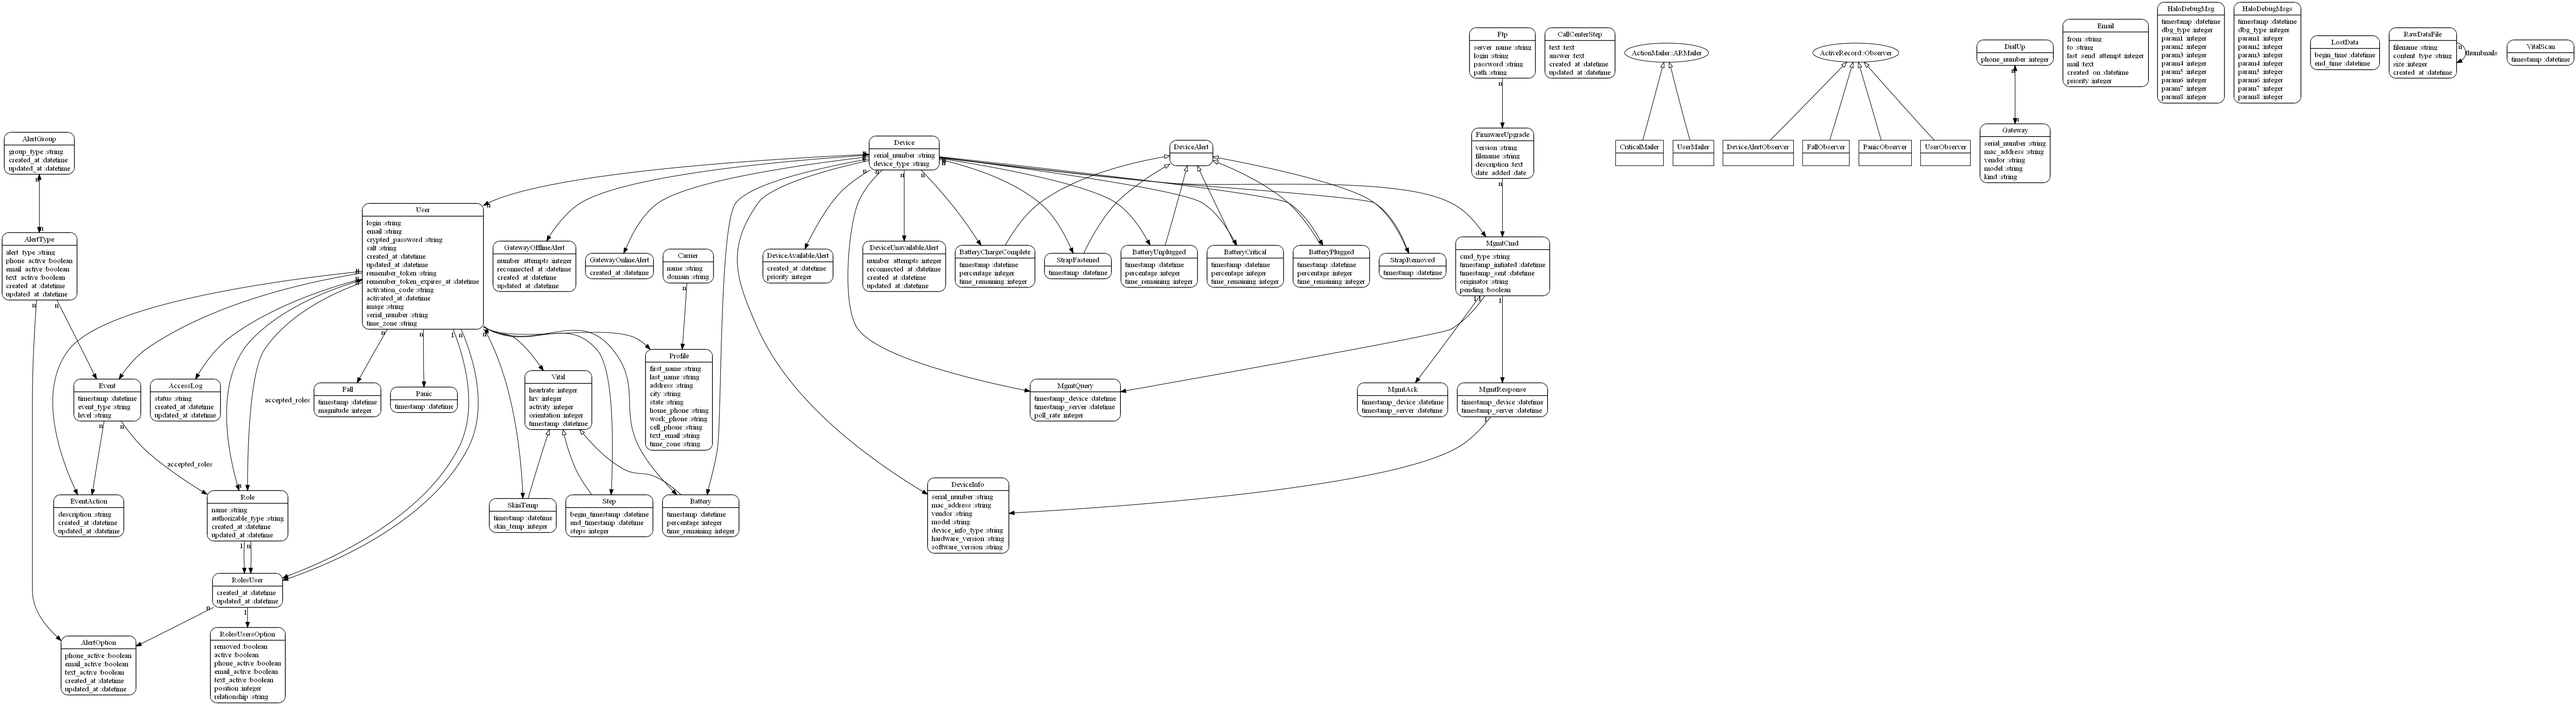
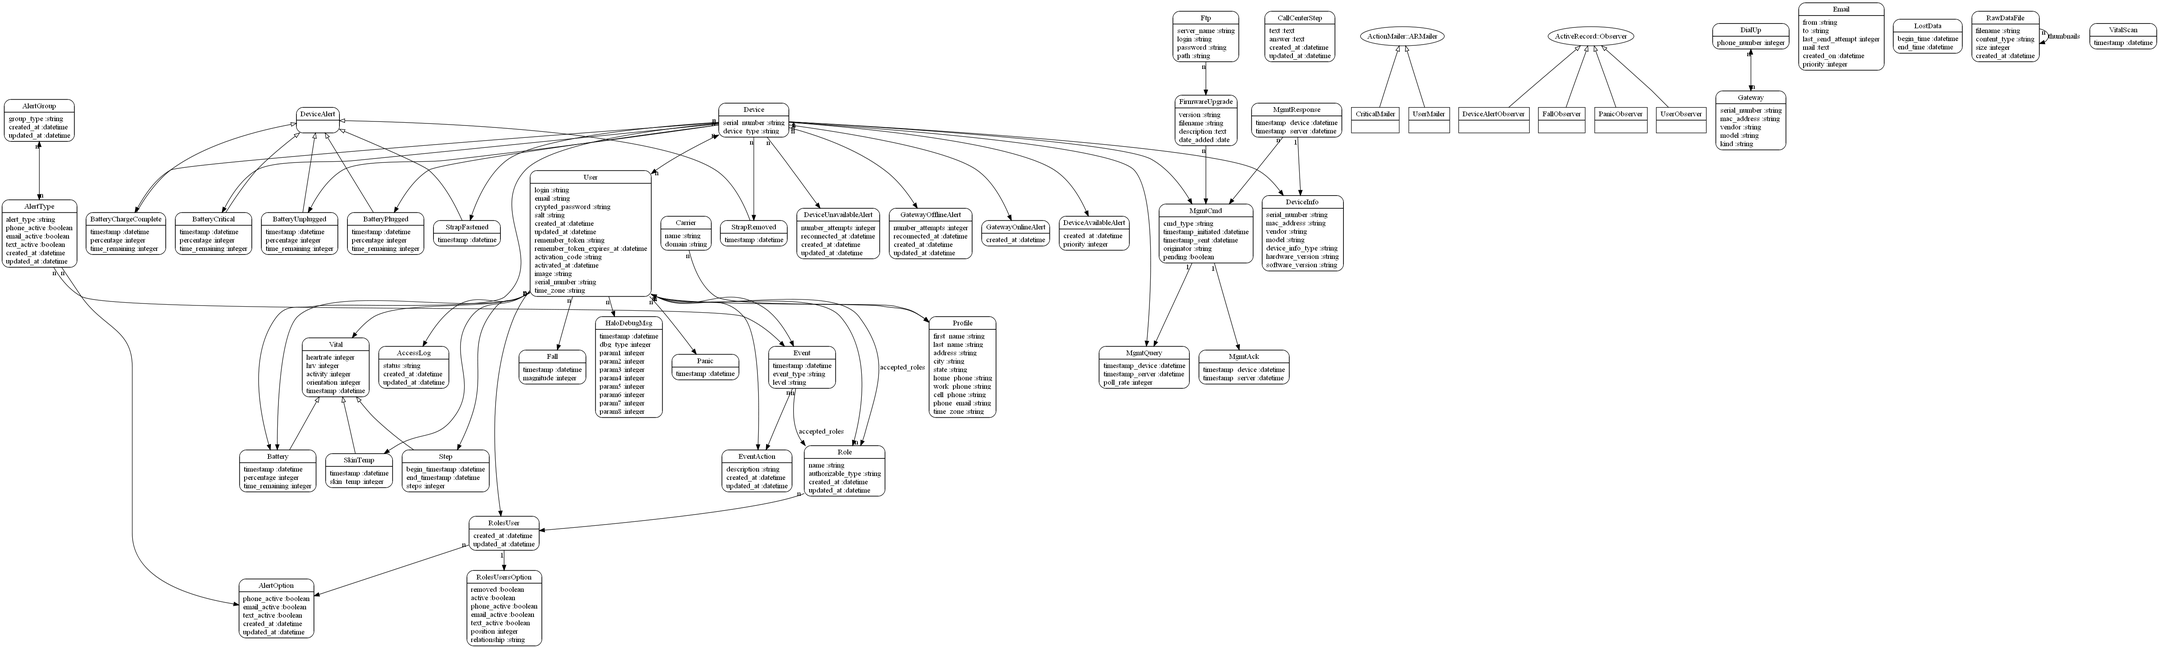
Support for mgmt_response has_many mgmt_cmds and support for user has_many halo_debug_msgs
git-svn-id: http://svn2.assembla.com/svn/halotrac/trunk@764 04a73145-ec33-0410-b10b-c8dba00f0e28

diff --git a/app/controllers/mgmt_responses_controller.rb b/app/controllers/mgmt_responses_controller.rb
@@ -1,43 +1,60 @@
 class MgmtResponsesController < RestfulAuthController
+  @@responses_cmds = {"info" => ["firmware_upgrade", "reset", "info"]}
+  
+  def conditions_from_hash(response)
+    conds = []
+    @@responses_cmds["#{response}"].each do |cmd|
+      conds << "cmd_type = '#{cmd}'"
+    end
+    
+    conds.join(' or ')
+  end
+  
   def create
     # 1. Create Response, link with Cmd
     request = params[:management_response_device]
-        
-    if cmd = MgmtCmd.find(:first, :conditions => {:cmd_type => request[:cmd_type], :device_id => request[:device_id]}, :order => "id asc")
-      unless cmd.mgmt_response
-        response = MgmtResponse.new
-        response.mgmt_cmd_id = cmd.id
-        response.timestamp_device = request[:timestamp]
-        response.timestamp_server = Time.now
-        response.save
+    conditions = conditions_from_hash(request[:cmd_type])    
+    cmds = MgmtCmd.find(:all, :conditions => "(#{conditions}) and device_id = #{request[:device_id]} and timestamp_sent is not null and pending = true", :order => "id asc")
+    if !cmds.blank?
+      response = MgmtResponse.new
+      #response.mgmt_cmd_id = cmd.id
+      response.timestamp_device = request[:timestamp]
+      response.timestamp_server = Time.now
+      response.save
+           
+      if i = request[:info]
+        info = DeviceInfo.new
+        info.device_id = request[:device_id]
+        info.mgmt_response_id = response.id
+        info.user_id = i[:user_id]
+        info.serial_number = i[:serial_num]
+        info.mac_address = i[:mac_address]
+        info.vendor = i[:vendor]
+        info.model = i[:model]
+        info.hardware_version = i[:hardware_version]
+        info.software_version = i[:software_version]        
+        info.save
+      end
       
+      cmds.each do |cmd|
+        #unless cmd.mgmt_response
+        response.mgmt_cmds << cmd
         cmd.pending = false
         cmd.save
-      
-        if i = request[:info]
-          info = DeviceInfo.new
-          info.device_id = request[:device_id]
-          info.mgmt_response_id = response.id
-          info.user_id = i[:user_id]
-          info.serial_number = i[:serial_num]
-          info.mac_address = i[:mac_address]
-          info.vendor = i[:vendor]
-          info.model = i[:model]
-          info.hardware_version = i[:hardware_version]
-          info.software_version = i[:software_version]        
-          info.save
-        end      
+        #end
       end
     else
       # create null command (cmd_type => no command)
       cmd = MgmtCmd.new
       cmd.device_id = request[:device_id]
       cmd.cmd_type = 'no_command'
+      cmd.originator = "server"
+      cmd.pending = false
       cmd.save
       
       # link null response to command
       response = MgmtResponse.new
-      response.mgmt_cmd_id = cmd.id
+      response.mgmt_cmds << cmd
     end
     
     render :nothing => true

diff --git a/app/controllers/mgmt_cmds_controller.rb b/app/controllers/mgmt_cmds_controller.rb
@@ -53,7 +53,7 @@ class MgmtCmdsController < RestfulAuthController
     
     # 3. Create mgmt_response
     response = MgmtResponse.new
-    response.mgmt_cmd_id = cmd.id
+    response.mgmt_cmds << cmd
     response.timestamp_server = Time.now
     response.save
     

diff --git a/app/models/user.rb b/app/models/user.rb
@@ -13,6 +13,7 @@ class User < ActiveRecord::Base
   has_one  :profile
   has_many :steps
   has_many :vitals
+  has_many :halo_debug_msgs
   #belongs_to :role
   #has_one :roles_user
   #has_one :roles_users_option

diff --git a/app/models/mgmt_cmd.rb b/app/models/mgmt_cmd.rb
@@ -1,5 +1,5 @@
 class MgmtCmd < ActiveRecord::Base
-  has_one :mgmt_response
+  belongs_to :mgmt_response
   has_one :mgmt_ack
   has_one :mgmt_query
   

diff --git a/app/models/mgmt_response.rb b/app/models/mgmt_response.rb
@@ -1,4 +1,4 @@
 class MgmtResponse < ActiveRecord::Base
-  belongs_to :mgmt_cmd
+  has_many :mgmt_cmds
   has_one :device_info
 end

diff --git a/app/models/halo_debug_msg.rb b/app/models/halo_debug_msg.rb
@@ -1,3 +1,3 @@
 class HaloDebugMsg < ActiveRecord::Base
-  
+  belongs_to :users
 end
